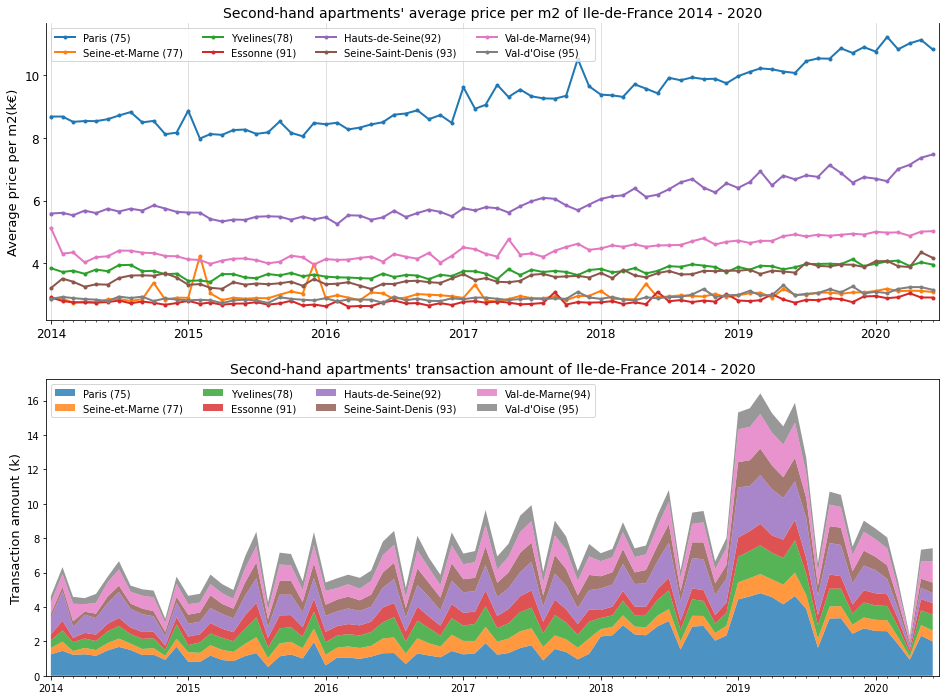
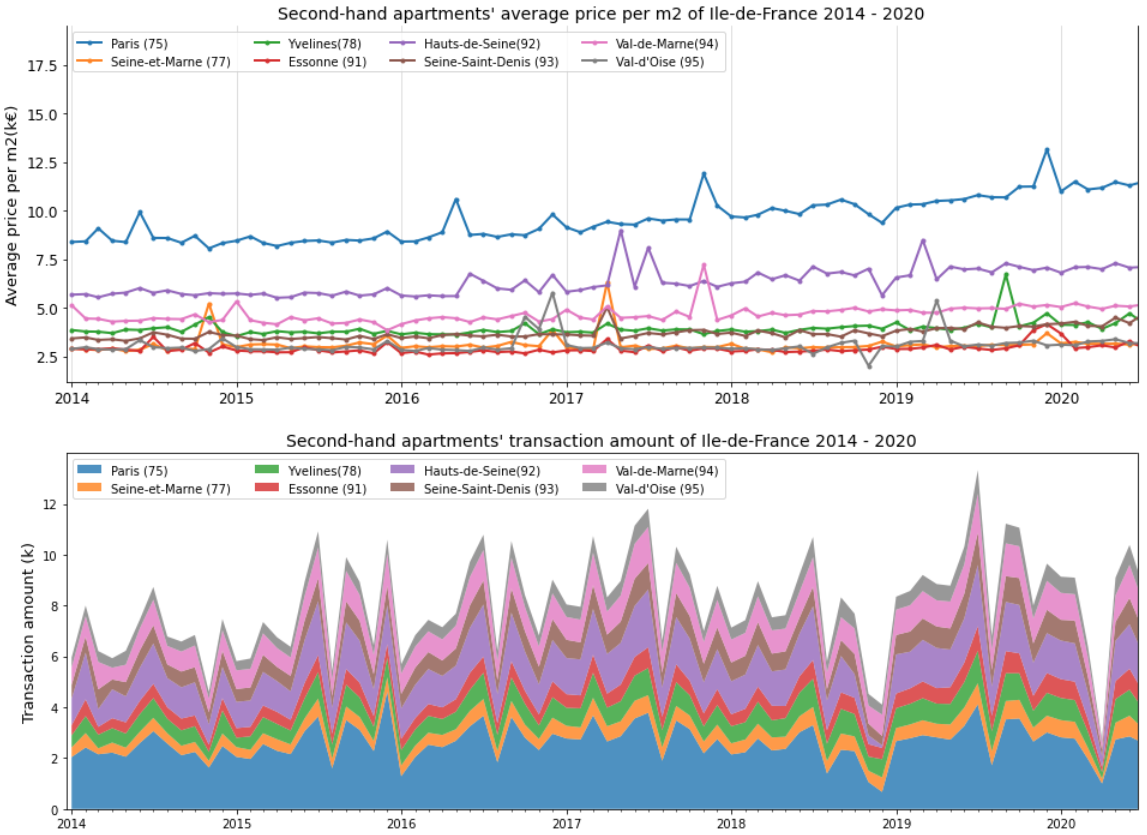
Deploying to gh-pages from @ jingwen-z/jingwen-z.github.io@3227e2aaddf95e5149cfcd11161968c435773b25 🚀

diff --git a/portfolio/analysis.html b/portfolio/analysis.html
@@ -26,13 +26,13 @@
 <meta property="og:url" content="https://jingwen-z.github.io/portfolio/analysis" />
 <meta property="og:site_name" content="Jingwen Zheng" />
 <meta property="og:type" content="article" />
-<meta property="article:published_time" content="2022-01-01T18:50:11+01:00" />
+<meta property="article:published_time" content="2022-01-03T09:14:52+01:00" />
 <meta name="twitter:card" content="summary" />
 <meta property="twitter:title" content="Analysis" />
 <meta name="twitter:site" content="@Jingwen_QI" />
 <meta name="twitter:creator" content="@Jingwen Zheng" />
 <script type="application/ld+json">
-{"author":{"@type":"Person","name":"Jingwen Zheng"},"description":"Data analysis with different visualisations on multiple topics, such as real estate, climate, COVID-19. Airbnb Paris Analysis：Paris is the capital and most populous city of France, and it also attracts lots of tourists, which makes me eager to dig out Airbnb locations in Paris. Where are the locations located? What are their prices? According to the analysis, we find that the majority of Airbnb locations in Paris are entire home/apartment; most of the locations are location at Buttes-Montmartre, Popincourt and Vaugirard; the most expensive locations are located at Elysée, Palais-Bourbon and Louvre. Furthermore, in recent years, Airbnb locations’ amount increases 102% in Paris, and locations’ average price does not change that much in general. Forest area analysis: Human society and forests influence each other in both positive and negative ways. Forests provide ecosystem services to humans and serve as tourist attractions. Forests can also affect people’s health. Human activities, including harvesting forest resources, can negatively affect forest ecosystems. Thus, only human protects forest so that forests will supply us more and more pure air. COVID-19 analysis: The outbreak of the COVID-19 has been several months. The initial outbreak has greatly affected China and other Asian countries. At the beginning of March, China reached its peak of COVID-19 pandemic for the first stage. After March, the COVID-19’s proliferation spread to other countries around the world, especially in Europe and North America. By applying different visualisation, I did several analysis for different continents, countries and cities.","@type":"BlogPosting","url":"https://jingwen-z.github.io/portfolio/analysis","headline":"Analysis","datePublished":"2022-01-01T18:50:11+01:00","dateModified":"2022-01-01T18:50:11+01:00","mainEntityOfPage":{"@type":"WebPage","@id":"https://jingwen-z.github.io/portfolio/analysis"},"@context":"https://schema.org"}</script>
+{"author":{"@type":"Person","name":"Jingwen Zheng"},"description":"Data analysis with different visualisations on multiple topics, such as real estate, climate, COVID-19. Airbnb Paris Analysis：Paris is the capital and most populous city of France, and it also attracts lots of tourists, which makes me eager to dig out Airbnb locations in Paris. Where are the locations located? What are their prices? According to the analysis, we find that the majority of Airbnb locations in Paris are entire home/apartment; most of the locations are location at Buttes-Montmartre, Popincourt and Vaugirard; the most expensive locations are located at Elysée, Palais-Bourbon and Louvre. Furthermore, in recent years, Airbnb locations’ amount increases 102% in Paris, and locations’ average price does not change that much in general. Forest area analysis: Human society and forests influence each other in both positive and negative ways. Forests provide ecosystem services to humans and serve as tourist attractions. Forests can also affect people’s health. Human activities, including harvesting forest resources, can negatively affect forest ecosystems. Thus, only human protects forest so that forests will supply us more and more pure air. COVID-19 analysis: The outbreak of the COVID-19 has been several months. The initial outbreak has greatly affected China and other Asian countries. At the beginning of March, China reached its peak of COVID-19 pandemic for the first stage. After March, the COVID-19’s proliferation spread to other countries around the world, especially in Europe and North America. By applying different visualisation, I did several analysis for different continents, countries and cities.","@type":"BlogPosting","url":"https://jingwen-z.github.io/portfolio/analysis","headline":"Analysis","datePublished":"2022-01-03T09:14:52+01:00","dateModified":"2022-01-03T09:14:52+01:00","mainEntityOfPage":{"@type":"WebPage","@id":"https://jingwen-z.github.io/portfolio/analysis"},"@context":"https://schema.org"}</script>
 <!-- End Jekyll SEO tag -->
 
 
@@ -332,8 +332,8 @@
         
 
       
-    </ul><ul class="right-col menu"><li><i class="far fa-calendar-alt"></i> <span>Jan 01, 2022</span>
-            </li></ul></div><meta itemprop="author" content="Jingwen Zheng"/><meta itemprop="datePublished" content="2022-01-01T18:50:11+01:00"><div class="js-article-content"><p>Data analysis with different visualisations on multiple topics, such as real
+    </ul><ul class="right-col menu"><li><i class="far fa-calendar-alt"></i> <span>Jan 03, 2022</span>
+            </li></ul></div><meta itemprop="author" content="Jingwen Zheng"/><meta itemprop="datePublished" content="2022-01-03T09:14:52+01:00"><div class="js-article-content"><p>Data analysis with different visualisations on multiple topics, such as real
 estate, climate, COVID-19.</p>
 <ul>
   <li>Airbnb Paris Analysis：Paris is the capital and most populous city of France,

diff --git a/portfolio/excel.html b/portfolio/excel.html
@@ -26,13 +26,13 @@
 <meta property="og:url" content="https://jingwen-z.github.io/portfolio/excel" />
 <meta property="og:site_name" content="Jingwen Zheng" />
 <meta property="og:type" content="article" />
-<meta property="article:published_time" content="2022-01-01T18:50:11+01:00" />
+<meta property="article:published_time" content="2022-01-03T09:14:52+01:00" />
 <meta name="twitter:card" content="summary" />
 <meta property="twitter:title" content="Excel" />
 <meta name="twitter:site" content="@Jingwen_QI" />
 <meta name="twitter:creator" content="@Jingwen Zheng" />
 <script type="application/ld+json">
-{"author":{"@type":"Person","name":"Jingwen Zheng"},"description":"My blog introduces how to use openpyxl package to manipulate Microsoft Excel workbook and worksheet, like create a workbook and worksheet, write values in cells, set font(size, type, bold, italic), cut and paste values from one cell to another, remove one row, merge cells, set number format, set cells’ background colors and center text in one cell, wrap text in one cell, reset columns’ width, set borders, hide grid, reset zoom scale, create named range and save the workbook.","@type":"BlogPosting","url":"https://jingwen-z.github.io/portfolio/excel","headline":"Excel","datePublished":"2022-01-01T18:50:11+01:00","dateModified":"2022-01-01T18:50:11+01:00","mainEntityOfPage":{"@type":"WebPage","@id":"https://jingwen-z.github.io/portfolio/excel"},"@context":"https://schema.org"}</script>
+{"author":{"@type":"Person","name":"Jingwen Zheng"},"description":"My blog introduces how to use openpyxl package to manipulate Microsoft Excel workbook and worksheet, like create a workbook and worksheet, write values in cells, set font(size, type, bold, italic), cut and paste values from one cell to another, remove one row, merge cells, set number format, set cells’ background colors and center text in one cell, wrap text in one cell, reset columns’ width, set borders, hide grid, reset zoom scale, create named range and save the workbook.","@type":"BlogPosting","url":"https://jingwen-z.github.io/portfolio/excel","headline":"Excel","datePublished":"2022-01-03T09:14:52+01:00","dateModified":"2022-01-03T09:14:52+01:00","mainEntityOfPage":{"@type":"WebPage","@id":"https://jingwen-z.github.io/portfolio/excel"},"@context":"https://schema.org"}</script>
 <!-- End Jekyll SEO tag -->
 
 
@@ -332,8 +332,8 @@
         
 
       
-    </ul><ul class="right-col menu"><li><i class="far fa-calendar-alt"></i> <span>Jan 01, 2022</span>
-            </li></ul></div><meta itemprop="author" content="Jingwen Zheng"/><meta itemprop="datePublished" content="2022-01-01T18:50:11+01:00"><div class="js-article-content"><p>My blog introduces how to use <code class="language-plaintext highlighter-rouge">openpyxl</code> package to manipulate Microsoft Excel
+    </ul><ul class="right-col menu"><li><i class="far fa-calendar-alt"></i> <span>Jan 03, 2022</span>
+            </li></ul></div><meta itemprop="author" content="Jingwen Zheng"/><meta itemprop="datePublished" content="2022-01-03T09:14:52+01:00"><div class="js-article-content"><p>My blog introduces how to use <code class="language-plaintext highlighter-rouge">openpyxl</code> package to manipulate Microsoft Excel
 workbook and worksheet, like create a workbook and worksheet, write values in
 cells, set font(size, type, bold, italic), cut and paste values from one cell
 to another, remove one row, merge cells, set number format, set cells’

diff --git a/portfolio/sql.html b/portfolio/sql.html
@@ -26,13 +26,13 @@
 <meta property="og:url" content="https://jingwen-z.github.io/portfolio/sql" />
 <meta property="og:site_name" content="Jingwen Zheng" />
 <meta property="og:type" content="article" />
-<meta property="article:published_time" content="2022-01-01T18:50:11+01:00" />
+<meta property="article:published_time" content="2022-01-03T09:14:52+01:00" />
 <meta name="twitter:card" content="summary" />
 <meta property="twitter:title" content="SQL" />
 <meta name="twitter:site" content="@Jingwen_QI" />
 <meta name="twitter:creator" content="@Jingwen Zheng" />
 <script type="application/ld+json">
-{"author":{"@type":"Person","name":"Jingwen Zheng"},"description":"Various manipulation with SQL query, such as: ISO calendar: When we create yearly, monthly or weekly report, we are sometimes beset by problem about calendar. Like the last day of year 2018 (2018-12-31) is regarded as one day of 2018 or 2019 ? Or the last day of year 2018 is considered as one day of 2018’s last week or 2019’s first week? It’s a question about ISO calendar, and the answer depends on what we want. In my blog, I talked about how to handle ISO calendar with Teradata Database SQL. Data processing: we can take advantage of SQL query to improve pandas dataframe processing performance.","@type":"BlogPosting","url":"https://jingwen-z.github.io/portfolio/sql","headline":"SQL","datePublished":"2022-01-01T18:50:11+01:00","dateModified":"2022-01-01T18:50:11+01:00","mainEntityOfPage":{"@type":"WebPage","@id":"https://jingwen-z.github.io/portfolio/sql"},"@context":"https://schema.org"}</script>
+{"author":{"@type":"Person","name":"Jingwen Zheng"},"description":"Various manipulation with SQL query, such as: ISO calendar: When we create yearly, monthly or weekly report, we are sometimes beset by problem about calendar. Like the last day of year 2018 (2018-12-31) is regarded as one day of 2018 or 2019 ? Or the last day of year 2018 is considered as one day of 2018’s last week or 2019’s first week? It’s a question about ISO calendar, and the answer depends on what we want. In my blog, I talked about how to handle ISO calendar with Teradata Database SQL. Data processing: we can take advantage of SQL query to improve pandas dataframe processing performance.","@type":"BlogPosting","url":"https://jingwen-z.github.io/portfolio/sql","headline":"SQL","datePublished":"2022-01-03T09:14:52+01:00","dateModified":"2022-01-03T09:14:52+01:00","mainEntityOfPage":{"@type":"WebPage","@id":"https://jingwen-z.github.io/portfolio/sql"},"@context":"https://schema.org"}</script>
 <!-- End Jekyll SEO tag -->
 
 
@@ -332,8 +332,8 @@
         
 
       
-    </ul><ul class="right-col menu"><li><i class="far fa-calendar-alt"></i> <span>Jan 01, 2022</span>
-            </li></ul></div><meta itemprop="author" content="Jingwen Zheng"/><meta itemprop="datePublished" content="2022-01-01T18:50:11+01:00"><div class="js-article-content"><p>Various manipulation with SQL query, such as:</p>
+    </ul><ul class="right-col menu"><li><i class="far fa-calendar-alt"></i> <span>Jan 03, 2022</span>
+            </li></ul></div><meta itemprop="author" content="Jingwen Zheng"/><meta itemprop="datePublished" content="2022-01-03T09:14:52+01:00"><div class="js-article-content"><p>Various manipulation with SQL query, such as:</p>
 <ul>
   <li>ISO calendar: When we create yearly, monthly or weekly report, we are
 sometimes beset by problem about calendar. Like the last day of year 2018

diff --git a/portfolio/geovisualisation.html b/portfolio/geovisualisation.html
@@ -26,13 +26,13 @@
 <meta property="og:url" content="https://jingwen-z.github.io/portfolio/geovisualisation" />
 <meta property="og:site_name" content="Jingwen Zheng" />
 <meta property="og:type" content="article" />
-<meta property="article:published_time" content="2022-01-01T18:50:11+01:00" />
+<meta property="article:published_time" content="2022-01-03T09:14:52+01:00" />
 <meta name="twitter:card" content="summary" />
 <meta property="twitter:title" content="Geovisualisation" />
 <meta name="twitter:site" content="@Jingwen_QI" />
 <meta name="twitter:creator" content="@Jingwen Zheng" />
 <script type="application/ld+json">
-{"author":{"@type":"Person","name":"Jingwen Zheng"},"description":"Geovisualisation created by folium module of python. In my blogs: I talked about how to draw a variety of maps with folium module in Python, such as displaying all locations with points / clusters, painting areas with different colors, adding labels on the map, adding polygon borders, etc. I applied geovisualisation on different topics like real estate, climate change and COVID-19.","@type":"BlogPosting","url":"https://jingwen-z.github.io/portfolio/geovisualisation","headline":"Geovisualisation","datePublished":"2022-01-01T18:50:11+01:00","dateModified":"2022-01-01T18:50:11+01:00","mainEntityOfPage":{"@type":"WebPage","@id":"https://jingwen-z.github.io/portfolio/geovisualisation"},"@context":"https://schema.org"}</script>
+{"author":{"@type":"Person","name":"Jingwen Zheng"},"description":"Geovisualisation created by folium module of python. In my blogs: I talked about how to draw a variety of maps with folium module in Python, such as displaying all locations with points / clusters, painting areas with different colors, adding labels on the map, adding polygon borders, etc. I applied geovisualisation on different topics like real estate, climate change and COVID-19.","@type":"BlogPosting","url":"https://jingwen-z.github.io/portfolio/geovisualisation","headline":"Geovisualisation","datePublished":"2022-01-03T09:14:52+01:00","dateModified":"2022-01-03T09:14:52+01:00","mainEntityOfPage":{"@type":"WebPage","@id":"https://jingwen-z.github.io/portfolio/geovisualisation"},"@context":"https://schema.org"}</script>
 <!-- End Jekyll SEO tag -->
 
 
@@ -332,8 +332,8 @@
         
 
       
-    </ul><ul class="right-col menu"><li><i class="far fa-calendar-alt"></i> <span>Jan 01, 2022</span>
-            </li></ul></div><meta itemprop="author" content="Jingwen Zheng"/><meta itemprop="datePublished" content="2022-01-01T18:50:11+01:00"><div class="js-article-content"><p>Geovisualisation created by <code class="language-plaintext highlighter-rouge">folium</code> module of python. In my blogs:</p>
+    </ul><ul class="right-col menu"><li><i class="far fa-calendar-alt"></i> <span>Jan 03, 2022</span>
+            </li></ul></div><meta itemprop="author" content="Jingwen Zheng"/><meta itemprop="datePublished" content="2022-01-03T09:14:52+01:00"><div class="js-article-content"><p>Geovisualisation created by <code class="language-plaintext highlighter-rouge">folium</code> module of python. In my blogs:</p>
 <ul>
   <li>I talked about how to draw a variety of maps with <code class="language-plaintext highlighter-rouge">folium</code> module in Python,
 such as displaying all locations with points / clusters, painting areas with

diff --git a/portfolio/visualisation.html b/portfolio/visualisation.html
@@ -26,13 +26,13 @@
 <meta property="og:url" content="https://jingwen-z.github.io/portfolio/visualisation" />
 <meta property="og:site_name" content="Jingwen Zheng" />
 <meta property="og:type" content="article" />
-<meta property="article:published_time" content="2022-01-01T18:50:11+01:00" />
+<meta property="article:published_time" content="2022-01-03T09:14:52+01:00" />
 <meta name="twitter:card" content="summary" />
 <meta property="twitter:title" content="Visualisation" />
 <meta name="twitter:site" content="@Jingwen_QI" />
 <meta name="twitter:creator" content="@Jingwen Zheng" />
 <script type="application/ld+json">
-{"author":{"@type":"Person","name":"Jingwen Zheng"},"description":"Visualisation created by multiple modules of python or R. In my blogs: I talked about how to create various plots with matplotlib module of python, such as scatter plot, treemap, venn diagram, area chart, radar chart, etc. I explained how to read and understand box plot. I applied multiple visualisations on different analytics topics, like climate change, real estate, COVID-19, etc.","@type":"BlogPosting","url":"https://jingwen-z.github.io/portfolio/visualisation","headline":"Visualisation","datePublished":"2022-01-01T18:50:11+01:00","dateModified":"2022-01-01T18:50:11+01:00","mainEntityOfPage":{"@type":"WebPage","@id":"https://jingwen-z.github.io/portfolio/visualisation"},"@context":"https://schema.org"}</script>
+{"author":{"@type":"Person","name":"Jingwen Zheng"},"description":"Visualisation created by multiple modules of python or R. In my blogs: I talked about how to create various plots with matplotlib module of python, such as scatter plot, treemap, venn diagram, area chart, radar chart, etc. I explained how to read and understand box plot. I applied multiple visualisations on different analytics topics, like climate change, real estate, COVID-19, etc.","@type":"BlogPosting","url":"https://jingwen-z.github.io/portfolio/visualisation","headline":"Visualisation","datePublished":"2022-01-03T09:14:52+01:00","dateModified":"2022-01-03T09:14:52+01:00","mainEntityOfPage":{"@type":"WebPage","@id":"https://jingwen-z.github.io/portfolio/visualisation"},"@context":"https://schema.org"}</script>
 <!-- End Jekyll SEO tag -->
 
 
@@ -332,8 +332,8 @@
         
 
       
-    </ul><ul class="right-col menu"><li><i class="far fa-calendar-alt"></i> <span>Jan 01, 2022</span>
-            </li></ul></div><meta itemprop="author" content="Jingwen Zheng"/><meta itemprop="datePublished" content="2022-01-01T18:50:11+01:00"><div class="js-article-content"><p>Visualisation created by multiple modules of python or R. In my blogs:</p>
+    </ul><ul class="right-col menu"><li><i class="far fa-calendar-alt"></i> <span>Jan 03, 2022</span>
+            </li></ul></div><meta itemprop="author" content="Jingwen Zheng"/><meta itemprop="datePublished" content="2022-01-03T09:14:52+01:00"><div class="js-article-content"><p>Visualisation created by multiple modules of python or R. In my blogs:</p>
 <ul>
   <li>I talked about how to create various plots with <code class="language-plaintext highlighter-rouge">matplotlib</code> module of python,
 such as scatter plot, treemap, venn diagram, area chart, radar chart, etc.</li>

diff --git a/portfolio/machine-learning.html b/portfolio/machine-learning.html
@@ -26,13 +26,13 @@
 <meta property="og:url" content="https://jingwen-z.github.io/portfolio/machine-learning" />
 <meta property="og:site_name" content="Jingwen Zheng" />
 <meta property="og:type" content="article" />
-<meta property="article:published_time" content="2022-01-01T18:50:11+01:00" />
+<meta property="article:published_time" content="2022-01-03T09:14:52+01:00" />
 <meta name="twitter:card" content="summary" />
 <meta property="twitter:title" content="Machine-Learning" />
 <meta name="twitter:site" content="@Jingwen_QI" />
 <meta name="twitter:creator" content="@Jingwen Zheng" />
 <script type="application/ld+json">
-{"author":{"@type":"Person","name":"Jingwen Zheng"},"description":"Reviews and projects of Machine Learning models / algorithms, such as: Regression Decision Trees Support Vector Machines Gradient Descent algorithm, etc.","@type":"BlogPosting","url":"https://jingwen-z.github.io/portfolio/machine-learning","headline":"Machine-Learning","datePublished":"2022-01-01T18:50:11+01:00","dateModified":"2022-01-01T18:50:11+01:00","mainEntityOfPage":{"@type":"WebPage","@id":"https://jingwen-z.github.io/portfolio/machine-learning"},"@context":"https://schema.org"}</script>
+{"author":{"@type":"Person","name":"Jingwen Zheng"},"description":"Reviews and projects of Machine Learning models / algorithms, such as: Regression Decision Trees Support Vector Machines Gradient Descent algorithm, etc.","@type":"BlogPosting","url":"https://jingwen-z.github.io/portfolio/machine-learning","headline":"Machine-Learning","datePublished":"2022-01-03T09:14:52+01:00","dateModified":"2022-01-03T09:14:52+01:00","mainEntityOfPage":{"@type":"WebPage","@id":"https://jingwen-z.github.io/portfolio/machine-learning"},"@context":"https://schema.org"}</script>
 <!-- End Jekyll SEO tag -->
 
 
@@ -332,8 +332,8 @@
         
 
       
-    </ul><ul class="right-col menu"><li><i class="far fa-calendar-alt"></i> <span>Jan 01, 2022</span>
-            </li></ul></div><meta itemprop="author" content="Jingwen Zheng"/><meta itemprop="datePublished" content="2022-01-01T18:50:11+01:00"><div class="js-article-content"><p>Reviews and projects of Machine Learning models / algorithms, such as:</p>
+    </ul><ul class="right-col menu"><li><i class="far fa-calendar-alt"></i> <span>Jan 03, 2022</span>
+            </li></ul></div><meta itemprop="author" content="Jingwen Zheng"/><meta itemprop="datePublished" content="2022-01-03T09:14:52+01:00"><div class="js-article-content"><p>Reviews and projects of Machine Learning models / algorithms, such as:</p>
 <ul>
   <li>Regression</li>
   <li>Decision Trees</li>

diff --git a/second-hand-apartments-transactions-in-idf-1420/index.html b/second-hand-apartments-transactions-in-idf-1420/index.html
@@ -485,23 +485,22 @@ only 0.25 million euros, which is much cheaper than in other departments.</p>
 <p>The line chart describes the second-hand apartments’ average price per m2 of
 Ile-de-France, between January 2014 and June 2020. Obviously, the average price
 in Paris is the highest in Ile-de-France and its evolution is the highest as
-well, which increased by 28%(11.1/8.7 - 1). Besides, the average price in
-Hauts-de-Seine is the second-highest in Ile-de-France, it increased by 36%
-(7.5/5.5-1); and the average price in Val-de-Marne increased by 16% (5/4.3-1);
+well, which increased 36%(11.4/8.4 - 1). Besides, the average price in
+Hauts-de-Seine is the second highest in Ile-de-France, it increased 30%
+(7.3/5.6-1); and the average price in Val-de-Marne increased 21% (5.1/4.2-1);
 the average price of other departments in Ile-de-France doesn’t change a lot.
 Among 8 departments, the second-hand apartments are the most expensive in Paris
-until June 2020, which is 11k euros per m2, it’s 47% higher than the price in
+until June 2020, which is 11k euros per m2, it’s 56% higher than the price in
 Hauts-de-Seine and twice more expensive than second-hand apartments in
 Val-de-Marne.</p>
 
-<p>The stacked area plot presents the second-hand apartments’ transaction amount of
+<p>The stacked area plot presentsthe second-hand arpatments’ transaction amount of
 Ile-de-France, during the same period as the line chart. We can easily find that
 the transaction amount of Paris’ second-hand apartments is more than other
-departments of IDF, which is nearly 30% of transactions in IDF. Following Paris,
+department of IDF, which is nearly 30% of transactions in IDF. Following Paris,
 the transaction amount of Hauts-de-Seine and Val-de-Marne are the second and
-third greatest of IDF. The peak of Paris’s transaction is March 2019 (4807
-transactions), for Hauts-de-Seine and Val-de-Marne are January 2019 and June
-2019, respectively.</p>
+third greatest of IDF. The peak of Paris’s transaction is December 2015 (4612
+transactions), for Hauts-de-Seine and Val-de-Marne is July 2019.</p>
 
 <p align="center">
   <img alt="Time series decomposition" src="/images/20210103-time-series-idf.png" />

diff --git a/portfolio/python3.html b/portfolio/python3.html
@@ -26,13 +26,13 @@
 <meta property="og:url" content="https://jingwen-z.github.io/portfolio/python3" />
 <meta property="og:site_name" content="Jingwen Zheng" />
 <meta property="og:type" content="article" />
-<meta property="article:published_time" content="2022-01-01T18:50:11+01:00" />
+<meta property="article:published_time" content="2022-01-03T09:14:52+01:00" />
 <meta name="twitter:card" content="summary" />
 <meta property="twitter:title" content="Python3" />
 <meta name="twitter:site" content="@Jingwen_QI" />
 <meta name="twitter:creator" content="@Jingwen Zheng" />
 <script type="application/ld+json">
-{"author":{"@type":"Person","name":"Jingwen Zheng"},"description":"Data Science Enthusiast","@type":"BlogPosting","url":"https://jingwen-z.github.io/portfolio/python3","headline":"Python3","datePublished":"2022-01-01T18:50:11+01:00","dateModified":"2022-01-01T18:50:11+01:00","mainEntityOfPage":{"@type":"WebPage","@id":"https://jingwen-z.github.io/portfolio/python3"},"@context":"https://schema.org"}</script>
+{"author":{"@type":"Person","name":"Jingwen Zheng"},"description":"Data Science Enthusiast","@type":"BlogPosting","url":"https://jingwen-z.github.io/portfolio/python3","headline":"Python3","datePublished":"2022-01-03T09:14:52+01:00","dateModified":"2022-01-03T09:14:52+01:00","mainEntityOfPage":{"@type":"WebPage","@id":"https://jingwen-z.github.io/portfolio/python3"},"@context":"https://schema.org"}</script>
 <!-- End Jekyll SEO tag -->
 
 
@@ -332,8 +332,8 @@
         
 
       
-    </ul><ul class="right-col menu"><li><i class="far fa-calendar-alt"></i> <span>Jan 01, 2022</span>
-            </li></ul></div><meta itemprop="author" content="Jingwen Zheng"/><meta itemprop="datePublished" content="2022-01-01T18:50:11+01:00"><div class="js-article-content">
+    </ul><ul class="right-col menu"><li><i class="far fa-calendar-alt"></i> <span>Jan 03, 2022</span>
+            </li></ul></div><meta itemprop="author" content="Jingwen Zheng"/><meta itemprop="datePublished" content="2022-01-03T09:14:52+01:00"><div class="js-article-content">
 
 
 <div class="layout--articles">

diff --git a/portfolio/retail.html b/portfolio/retail.html
@@ -26,13 +26,13 @@
 <meta property="og:url" content="https://jingwen-z.github.io/portfolio/retail" />
 <meta property="og:site_name" content="Jingwen Zheng" />
 <meta property="og:type" content="article" />
-<meta property="article:published_time" content="2022-01-01T18:50:11+01:00" />
+<meta property="article:published_time" content="2022-01-03T09:14:52+01:00" />
 <meta name="twitter:card" content="summary" />
 <meta property="twitter:title" content="Retail" />
 <meta name="twitter:site" content="@Jingwen_QI" />
 <meta name="twitter:creator" content="@Jingwen Zheng" />
 <script type="application/ld+json">
-{"author":{"@type":"Person","name":"Jingwen Zheng"},"description":"Data Science Enthusiast","@type":"BlogPosting","url":"https://jingwen-z.github.io/portfolio/retail","headline":"Retail","datePublished":"2022-01-01T18:50:11+01:00","dateModified":"2022-01-01T18:50:11+01:00","mainEntityOfPage":{"@type":"WebPage","@id":"https://jingwen-z.github.io/portfolio/retail"},"@context":"https://schema.org"}</script>
+{"author":{"@type":"Person","name":"Jingwen Zheng"},"description":"Data Science Enthusiast","@type":"BlogPosting","url":"https://jingwen-z.github.io/portfolio/retail","headline":"Retail","datePublished":"2022-01-03T09:14:52+01:00","dateModified":"2022-01-03T09:14:52+01:00","mainEntityOfPage":{"@type":"WebPage","@id":"https://jingwen-z.github.io/portfolio/retail"},"@context":"https://schema.org"}</script>
 <!-- End Jekyll SEO tag -->
 
 
@@ -332,8 +332,8 @@
         
 
       
-    </ul><ul class="right-col menu"><li><i class="far fa-calendar-alt"></i> <span>Jan 01, 2022</span>
-            </li></ul></div><meta itemprop="author" content="Jingwen Zheng"/><meta itemprop="datePublished" content="2022-01-01T18:50:11+01:00"><div class="js-article-content">
+    </ul><ul class="right-col menu"><li><i class="far fa-calendar-alt"></i> <span>Jan 03, 2022</span>
+            </li></ul></div><meta itemprop="author" content="Jingwen Zheng"/><meta itemprop="datePublished" content="2022-01-03T09:14:52+01:00"><div class="js-article-content">
 
 
 <div class="layout--articles">

diff --git a/portfolio/api.html b/portfolio/api.html
@@ -26,13 +26,13 @@
 <meta property="og:url" content="https://jingwen-z.github.io/portfolio/api" />
 <meta property="og:site_name" content="Jingwen Zheng" />
 <meta property="og:type" content="article" />
-<meta property="article:published_time" content="2022-01-01T18:50:11+01:00" />
+<meta property="article:published_time" content="2022-01-03T09:14:52+01:00" />
 <meta name="twitter:card" content="summary" />
 <meta property="twitter:title" content="API" />
 <meta name="twitter:site" content="@Jingwen_QI" />
 <meta name="twitter:creator" content="@Jingwen Zheng" />
 <script type="application/ld+json">
-{"author":{"@type":"Person","name":"Jingwen Zheng"},"description":"Data Science Enthusiast","@type":"BlogPosting","url":"https://jingwen-z.github.io/portfolio/api","headline":"API","datePublished":"2022-01-01T18:50:11+01:00","dateModified":"2022-01-01T18:50:11+01:00","mainEntityOfPage":{"@type":"WebPage","@id":"https://jingwen-z.github.io/portfolio/api"},"@context":"https://schema.org"}</script>
+{"author":{"@type":"Person","name":"Jingwen Zheng"},"description":"Data Science Enthusiast","@type":"BlogPosting","url":"https://jingwen-z.github.io/portfolio/api","headline":"API","datePublished":"2022-01-03T09:14:52+01:00","dateModified":"2022-01-03T09:14:52+01:00","mainEntityOfPage":{"@type":"WebPage","@id":"https://jingwen-z.github.io/portfolio/api"},"@context":"https://schema.org"}</script>
 <!-- End Jekyll SEO tag -->
 
 
@@ -332,8 +332,8 @@
         
 
       
-    </ul><ul class="right-col menu"><li><i class="far fa-calendar-alt"></i> <span>Jan 01, 2022</span>
-            </li></ul></div><meta itemprop="author" content="Jingwen Zheng"/><meta itemprop="datePublished" content="2022-01-01T18:50:11+01:00"><div class="js-article-content">
+    </ul><ul class="right-col menu"><li><i class="far fa-calendar-alt"></i> <span>Jan 03, 2022</span>
+            </li></ul></div><meta itemprop="author" content="Jingwen Zheng"/><meta itemprop="datePublished" content="2022-01-03T09:14:52+01:00"><div class="js-article-content">
 
 
 <div class="layout--articles">
